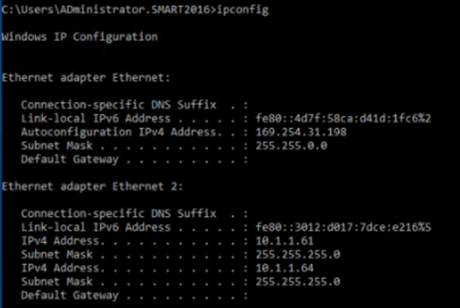
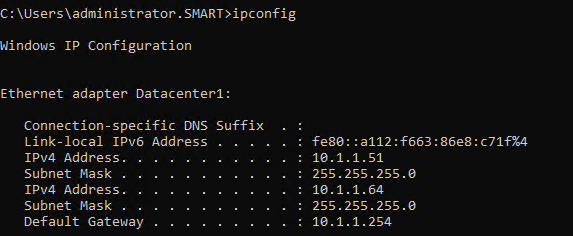
Changed Exercise 2 to be performed on RDCB1 and RDCB2.

Changed region(s): [[0.0, 0.0, 0.9435, 1.0], [0.5174, 0.3559, 0.9435, 0.5042], [0.5174, 0.5042, 0.5478, 0.5339]]

diff --git a/Instructions/Labs/LAB_14-High-Availability-and-Disaster-Recovery.md b/Instructions/Labs/LAB_14-High-Availability-and-Disaster-Recovery.md
@@ -7,8 +7,8 @@
 * DHCP
 * Router
 * HV1
-* FS on HV1
-* WS2019 on HV1
+* RDCB1
+* RDCB2
 
 ## Exercises
 
@@ -179,7 +179,8 @@ In this exercise, you will create and test a network load balancing cluster.
 
 ### Tasks
 
-1. [Install and configure IIS](#task-1-install-and-configure-iis)
+1. [Install IIS and Network Load Balancing](#task-1-install-iis-and-network-load-balancing)
+1. [Configure IIS](#task-2-configure-iis)
 1. [Create an NLB cluster](#task-2-create-an-nlb-cluster)
 1. [Configure DNS](#task-3-configure-dns)
 1. [Add a node to the NLB cluster](#task-4-add-a-node-to-an-NLB-cluster)
@@ -191,24 +192,26 @@ In this exercise, you will create and test a network load balancing cluster.
 
 ### Detailed Instructions
 
-#### Task 1: Install and configure IIS
+#### Task 1: Install IIS and Network Load Balancing
 
-Perform these tasks on CL1.
+Perform these steps on RDCB1 and RDCB2.
 
-1. Logon as **smart\administrator**
-1. Run **Windows PowerShell** as Administrator
-1. Install Role Web Server (IIS) the feature Network Load Balancing.
+1. Logon as **smart\administrator**.
+1. Open **Server Manager**.
+1. In **Server Manager**, click **Manage**, **Add Roles and Features**.
+1. In **Add Role and Features Wizard**, continue to the page **Select server roles**.
+1. On page **Select server roles**, activate **Web Server (IIS)**.
+1. On page **Select featues**, active **Network Load Balancing**.
+1. Continue through the wizard to install Web Server (IIS) and Network Load Balancing.
 
-   ````powershell
-   # Invoke-Command allow to run the command in ScriptBlock
-   # remotely on multiple computers
-   Invoke-Command -Computername FS, WS2019 -ScriptBlock {
-       Install-WindowsFeature 'Web-Server', 'NLB' -IncludeManagementTools
-    }
-   ````
+Repeat the steps on RDCB2.
+
+#### Task 2: Configure IIS
+
+Perform these steps on RDCB1.
 
 1. Open Notepad.
-1. Open file \\FS\c$\Inetpub\wwwroot\iisstart.htm.
+1. Open file \\\\RDCB1\c$\Inetpub\wwwroot\iisstart.htm.
 1. Find the stylesheet for body, change the **background-color** attribute to **red**, and save the file.
 
    ````css
@@ -219,7 +222,7 @@ Perform these tasks on CL1.
    }
    ````
 
-1. Open file \\WS2019\c$\Inetpub\wwwroot\iisstart.htm.
+1. Open file \\RDCB2\c$\Inetpub\wwwroot\iisstart.htm.
 1. Find the stylesheet for body, change the **background-color** attribute to **blue**, and save the file.
 
    ````css
@@ -230,21 +233,23 @@ Perform these tasks on CL1.
    }
    ````
 
+1. Close **Notepad**.
+
 #### Task 2: Create an NLB cluster
 
-Perform these steps on FS.
+Perform these steps on RDCB1.
 
 1. Logon as **smart\Adminitrator**.
 1. From the start menu, open **Network Load Balancing Manager**.
 1. From the context menu of **Load Balancing Clusters**, select **New Cluster**.
-1. Enter **FS**, and click on **Connect**.
-1. Select the IP address **10.1.1.42**, and click on **Next**.
-1. Keep the default settings, and click on **Next**.
-1. Add the clustered IP **10.1.1.64/24**, and click on **Next**.
-1. Enter the FQDN **www.smart.etc**, and set the cluster operations mode to **Multicast**.
-1. Select the default port rules, and click on **Edit**.
-1. Change the port range to **80:80/tcp** ([figure 10]).
-1. Click on **Finish** to create the NLB cluster.
+1. On page **New Cluster: Connect**, in **Host**, enter **RDCB**, and click on **Connect**.
+1. Under **Interfaces available for configuring a new cluster**, select the interface with the IP address **10.1.1.51**, and click on **Next**.
+1. On page **New Cluster: Host Parameters**, keep the default settings, and click on **Next**.
+1. On page **New Cluster: Cluster IP Addresses**, add the clustered IP **10.1.1.64/24**, and click on **Next**.
+1. On page **New Cluster: Cluster Parameters**, in **Full Internet name**, enter the FQDN **www.smart.etc**, set the cluster operations mode to **Multicast**, and click on **Next**.
+1. On page **New Cluster: Port Rules**, select the default port rule, and click on **Edit**.
+1. In **#Add/Edit Port Rule**, in **From** and **To**, enter **80**. Under Protocols, select TCP and click on **OK** ([figure 10]).
+1. Back on page **New Cluster: Port Rules**, click on **Finish** to create the NLB cluster.
 1. Open a **Command Prompt**.
 1. Validate the IP configuration ([figure 11]).
 
@@ -259,7 +264,8 @@ Perform these steps on DC1.
 1. Open a web browser.
 1. Navigate to <http://10.1.1.64>. You should see the default page with red background.
 1. Open the **DNS Manager**.
-1. From the zone **smart.etc**, delete the record **www**.
+1. Click the Forward Lookup Zone **smart.etc**.
+1. If present, delete the A record **www**.
 1. Create a new A record with the name **www** and the IP address **10.1.1.64**.
 1. Run **Windows PowerShell** as Administrator.
 1. Clear the DNS Cache.
@@ -272,13 +278,13 @@ Perform these steps on DC1.
 
 #### Task 4: Add a node to an NLB cluster
 
-Perform these steps on FS.
+Perform these steps on RDCB1.
 
 1. In **Network Load Balancing Manager**,  from the context menu of the cluster www.smart.etc, select **Add Host to Cluster**.
-1. Enter **WS2019**.
-1. Select the IP address **10.1.1.32**, and click on **Next**.
-1. Keep the default configuration, and click on **Next**.
-1. Keep the default port configuration, and click on **Finish**. Wait until the node joins the cluster.
+1. On page **Add Host to Cluster: Connect**, in **Host**, enter **RDCB2**.
+1. Under **Interfaces available for configuring the cluster**, select the interface with the IP address **10.1.1.52**, and click on **Next**.
+1. On page **Add Host to Cluster: Host Parameters**, keep the default settings, and click on **Next**.
+1. On page **Add Host to Cluster: Port Rules**, keep the default configuration, and click on **Finish**. Wait until the node joins the cluster.
 
 #### Task 5: Validate an NLB cluster
 
@@ -292,9 +298,9 @@ Perform these steps on DC1.
 
 #### Task 6: Simulate a failure
 
-Perform these steps on FS.
+Perform these steps on RDCB1.
 
-1. In **Network Load Balancing manager**, From the context menu of node **FS**, select **Control host**, **Suspend**.
+1. In **Network Load Balancing manager**, From the context menu of node **RDCB1**, select **Control host**, **Suspend**.
 
 #### Task 7: Validate failover
 
@@ -304,9 +310,9 @@ Perform these steps on DC1.
 
 #### Task 8: Simulate recovery
 
-Perform these steps on FS.
+Perform these steps on RDCB1.
 
-1. In **Network Load Balancing Manager**, from the context menu of node FS, select **Control Host**, **Resume and Start**. Wait until the node joins the cluster.
+1. In **Network Load Balancing Manager**, from the context menu of node FS, select **Control Host**, **Resume**, then **Start**. Wait until the node joins the cluster.
 
 #### Task 9: Validate recovery
 
@@ -318,7 +324,7 @@ Perform these steps on DC1.
 
    You may try to refresh the page several times.
 
-If time permits, you can repeat tasks 6 - 9 simulating a failure on WS2019.
+If time permits, you can repeat tasks 6 - 9 simulating a failure on RDCB2.
 
 [figure 1]: images/Lab14/figure01.png
 [figure 2]: images/Lab14/figure02.png
